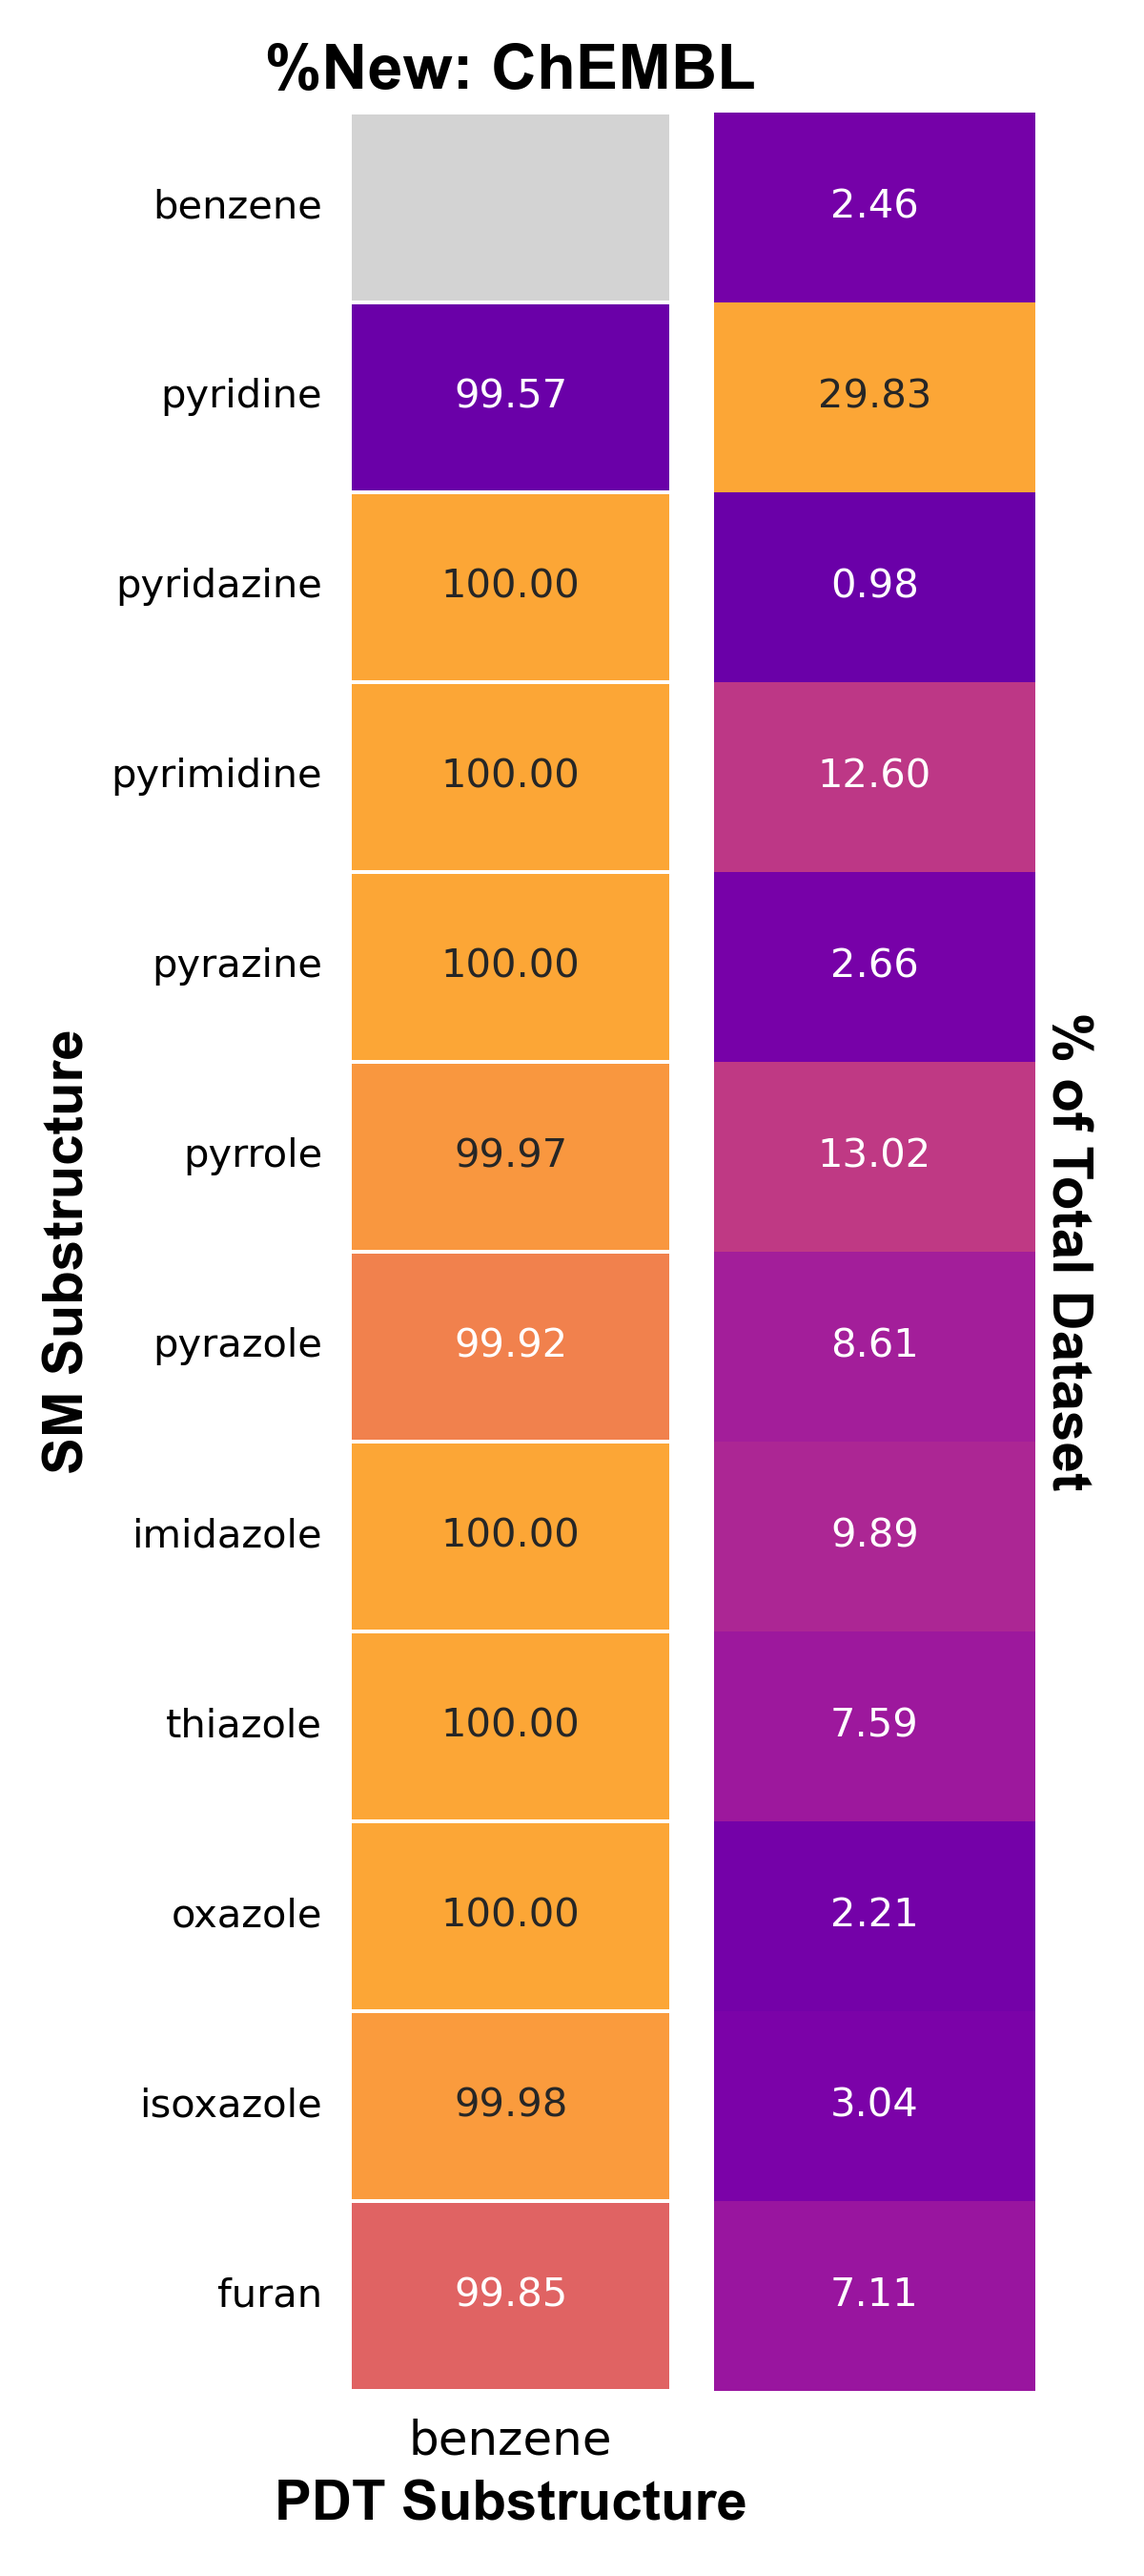
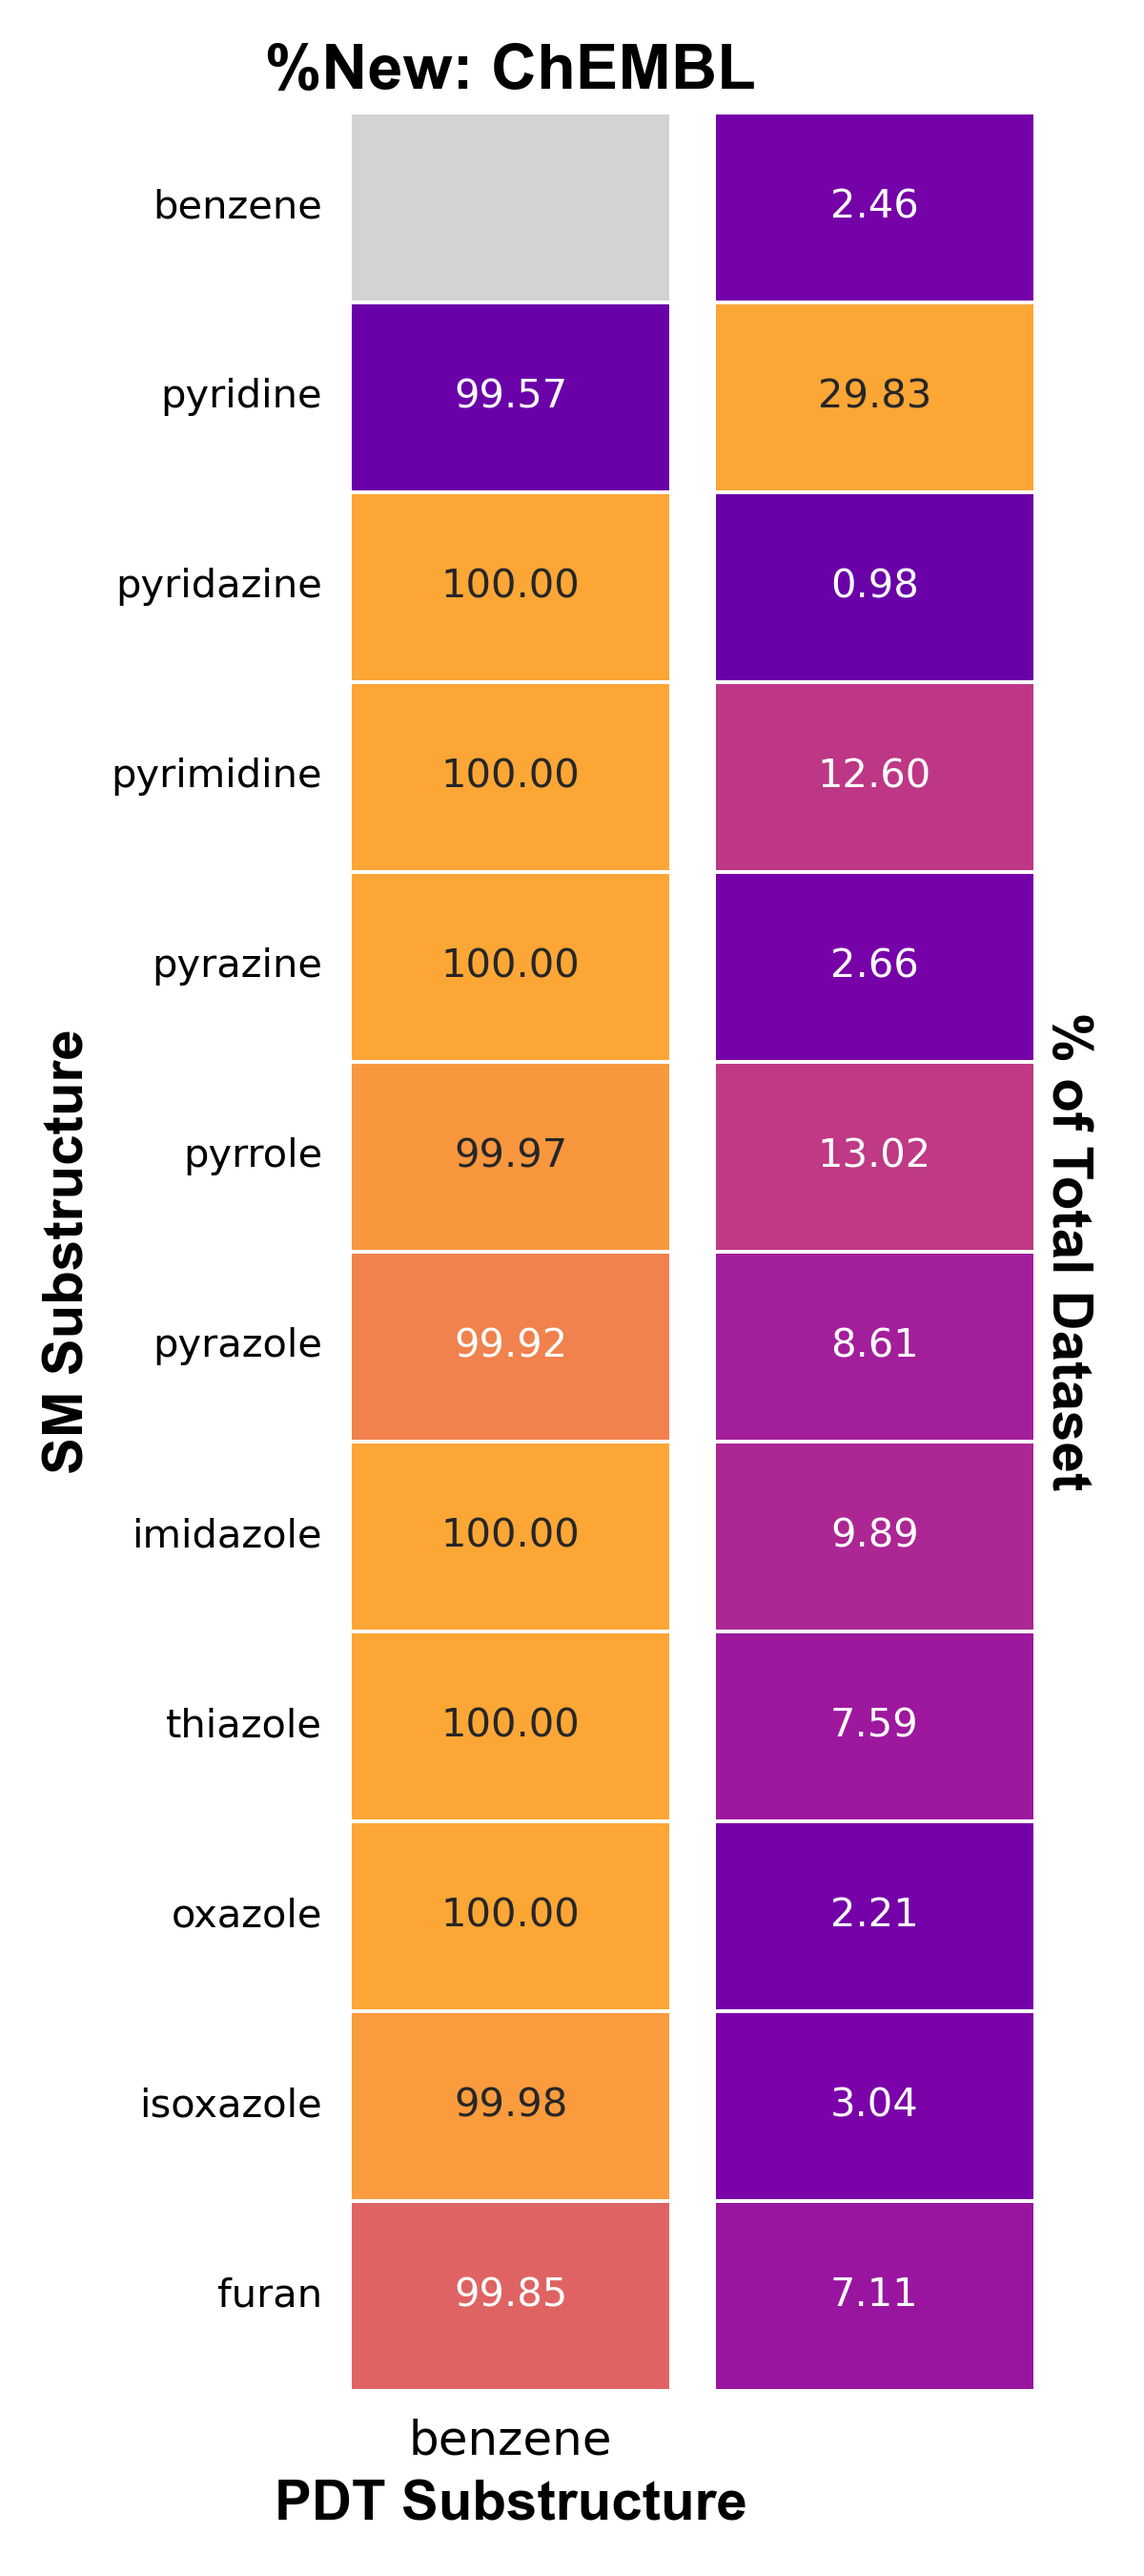
added selected heatmaps for chembl and mcule

diff --git a/databases/results/selected_dfs_analysis/heatmap_from_csv.py b/databases/results/selected_dfs_analysis/heatmap_from_csv.py
@@ -58,12 +58,12 @@ def GenerateHeatmap(dataframe, title, filename, directory):
 
 
 # Specify the file path of the CSV file
-csv_file_name = 'percent_common_df_enamine_select.csv'
+csv_file_name = 'percent_common_df_ChEMBL_select.csv'
 
 # Read the CSV file into a DataFrame
 df = pd.read_csv(csv_file_name, index_col = 0)
 
 GenerateHeatmap(df,
-                'Selected Enamine 350/3 Library Results: %Known',
-                'selected_enamine_percent_known.png',
+                'Selected ChEMBL Library Results: %Known',
+                'selected_ChEMBL_percent_known.png',
                 'selected_heatmaps')

diff --git a/databases/results/final_analysis.py b/databases/results/final_analysis.py
@@ -238,7 +238,7 @@ def GenerateHeatmap(dataframe, title, filename, sm_df, directory):
     sns.heatmap(sm_df,
                 annot=True,
                 cmap=cmap,
-                linewidths=0,
+                linewidths=0.5,
                 fmt=".2f",
                 annot_kws={"size": 10},
                 cbar=False)

diff --git a/databases/results/final_analysis_benzene_to_products.py b/databases/results/final_analysis_benzene_to_products.py
@@ -226,7 +226,7 @@ def GenerateHeatmap(dataframe, title, filename, sm_df, directory):
     sns.heatmap(sm_df,
                 annot=True,
                 cmap=cmap,
-                linewidths=0,
+                linewidths=0.5,
                 fmt=".2f",
                 annot_kws={"size": 10},
                 cbar=False)
